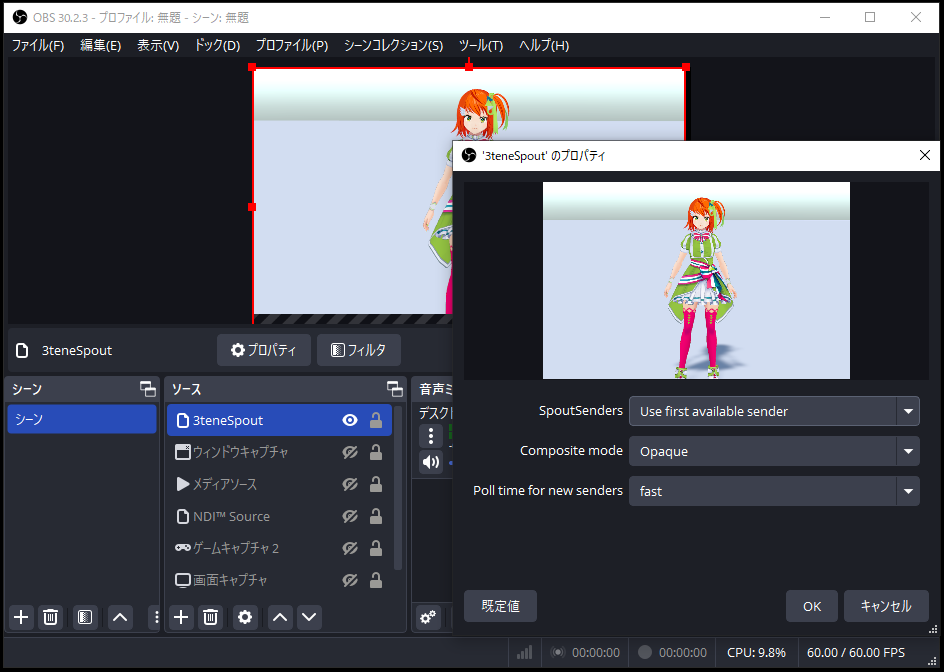
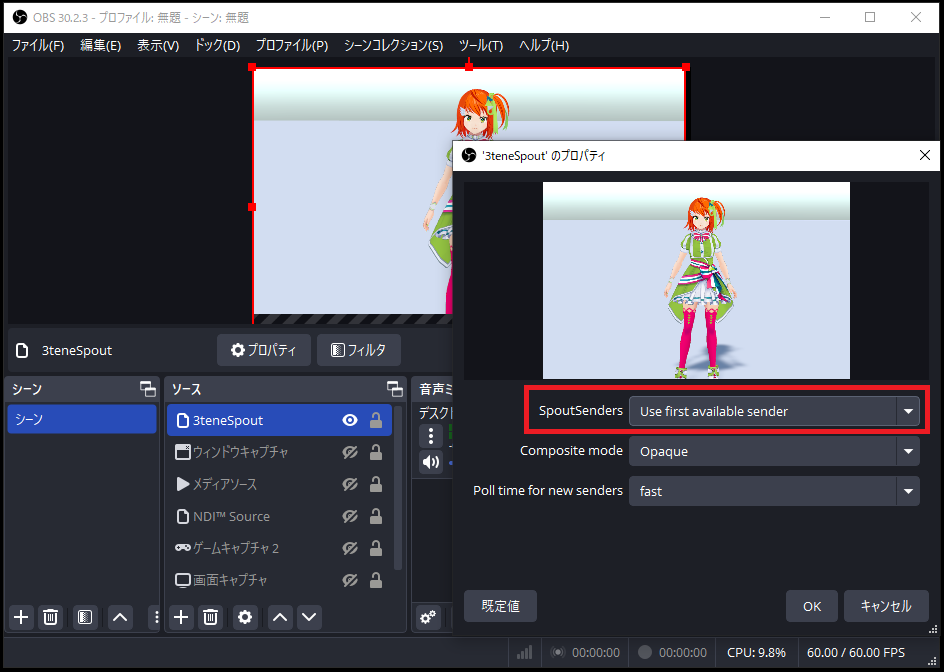
Spout 説明を修正。

Changed region(s): [[0.553, 0.5625, 1.0, 0.6562]]

diff --git a/index.html b/index.html
@@ -49,7 +49,7 @@
           <a href="About3teneFT.html" target="st-Contents">3teneFTについて</a><br>
           <a href="About3teneBT.html" target="st-Contents">3teneBTについて</a><br>
           <a href="AboutFaceForge.html" target="st-Contents">FaceForgeについて</a><br>
-          <a href="AboutOBS.html" target="st-Contents">OBSとの連携につい</a><br>
+          <a href="AboutOBS.html" target="st-Contents">OBSとの連携について</a><br>
           <a href="AboutGameLive.html" target="st-Contents">OBSとゲーム実況</a><br>
           <a href="AboutSecuritySoft.html" target="st-Contents">セキュリティソフトについて</a><br>
         </div>

diff --git a/Spout.md b/Spout.md
@@ -6,8 +6,8 @@
 ><font color="Red">※3teneFREE は対応していません。</font>  
 ><font color="Red">※Windows 版の専用機能です。</font>  
 >\
-><font color="Blue">Spout を経由する 3tene の画面は  
->仮想カメラ機能と同様にメニューやウインドウが録画対象とならないので  
+><font color="Blue">Spout を経由する 3tene の画面は仮想カメラ機能と同様に  
+>メニューやウインドウが録画対象とならないので  
 >アバターと背景のみの画面参照となります。</font>  
 >\
 >この機能を利用するには、映像を参照するソフトウェアが  
@@ -32,17 +32,22 @@
 
 >OBS のプラグインである obs-spout2-plugin をインストールします。  
 >[https://github.com/Off-World-Live/obs-spout2-plugin/releases](https://github.com/Off-World-Live/obs-spout2-plugin/releases)  
-
 >\
->インストールが完了するとソースに「Spout2 Capture」が追加されます。  
->Spout2 Capture を追加し、プロパティの「SpoutSenders」 に複数ある場合は  
->3tene で設定した「Spoutソース名」を選択してください。  
+>インストールが完了するとソースに「Spout2 Capture」が追加できるようになります。  
+>\
+>ソースに Spout2 Capture を選択して追加した後、プロパティを開きます。  
+>「SpoutSenders」 の項目に名称が複数ある場合は  
+>3tene で設定した Spout ソース名「<font color="Blue">3teneSpout</font>」を選択してください。  
 >\
 >![画像](image/Spout_2.png "")
 
 
 ### OBS のアルファチャンネル設定
 
+>背景を透過したい場合は下記の設定を行います。  
+>/
+>設定「システム」で「Spoutのアルファチャンネルを使用する」にチェックを付けます。  
+>/
 >3tene の背景設定を「色設定」の「透過背景」に設定します。  
 >![画像](image/background_3.png "")  
 >\
